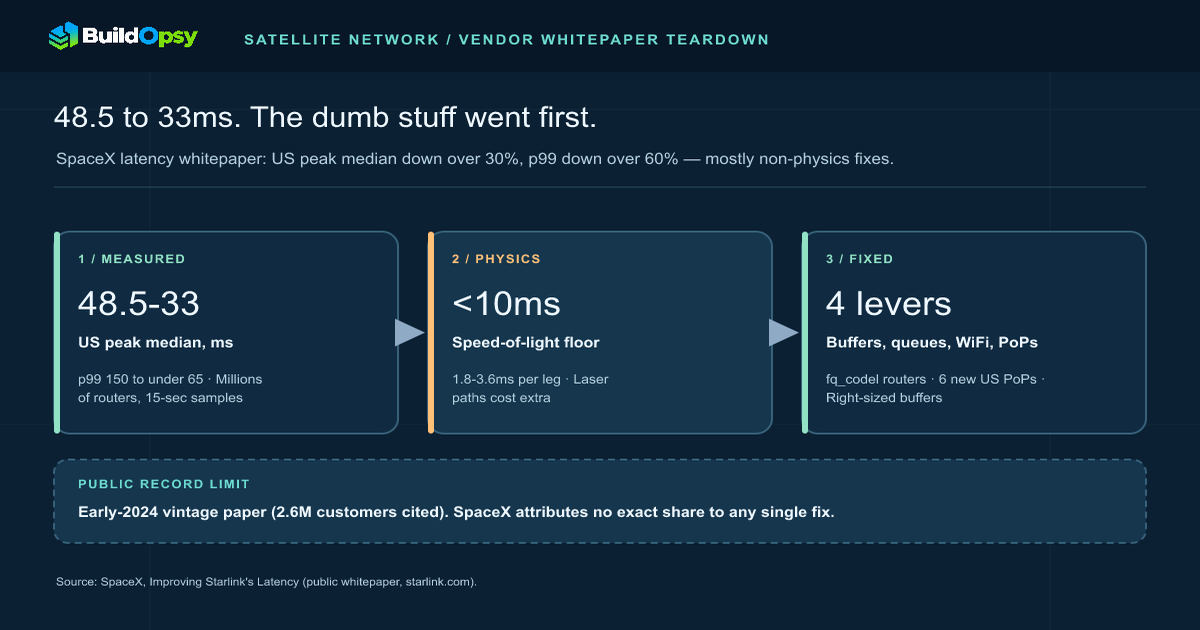
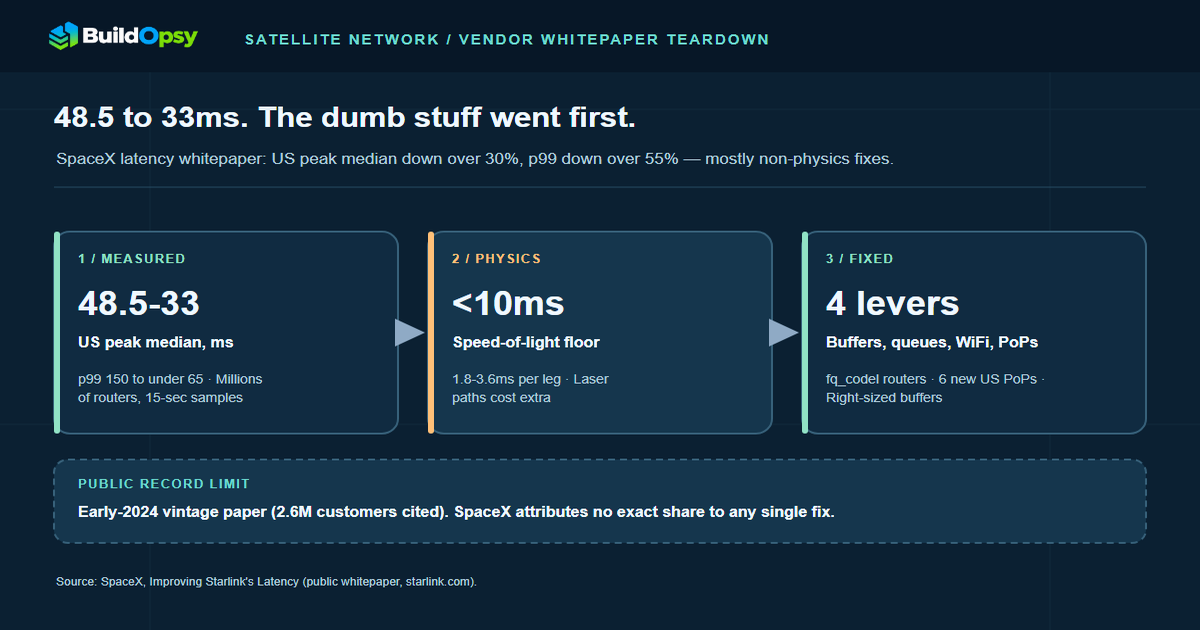
fix: correct latency p99 figures to strictly-true bounds

diff --git a/system-design/starlink-latency-whitepaper-teardown.html b/system-design/starlink-latency-whitepaper-teardown.html
@@ -49,7 +49,7 @@
         <p>Vendor latency claims usually arrive as a single best case. This paper is better than that. SpaceX reports distributions (median and p99), names the measurement window (peak hours, 6–9 PM local), and names the instrument (anonymized samples from millions of routers, averaged every 15 seconds). A claim with a denominator, a percentile, and a clock time can be checked. A bare "20ms!" cannot.</p>
         <table><thead><tr><th>Figure (SpaceX-reported)</th><th>Before</th><th>After</th><th>Cut</th></tr></thead><tbody>
           <tr><td>US peak-hour median</td><td>48.5ms</td><td>33ms</td><td>Over 30%</td></tr>
-          <tr><td>US peak-hour p99</td><td>Over 150ms</td><td>Under 65ms</td><td>Over 60%</td></tr>
+          <tr><td>US peak-hour p99</td><td>Over 150ms</td><td>Under 65ms</td><td>Over 55%</td></tr>
           <tr><td>Non-US median</td><td>Baseline undisclosed</td><td>Down up to 25%</td><td>Relative only</td></tr>
           <tr><td>Non-US worst case</td><td>Baseline undisclosed</td><td>Down up to 35%</td><td>Relative only</td></tr>
         </tbody></table>
@@ -136,7 +136,7 @@
         <div class="tip"><strong>Separate the WiFi:</strong> repeat one hour over the Starlink router's WiFi with a bulk download running alongside. The gap between wired-quiet and WiFi-loaded p99 is your household's personal bufferbloat number — and the fq_codel dividend, measured.</div>
       </section>
       <section><h2>8. The Verdict</h2>
-        <p>SpaceX's paper proves the composition, not just the improvement: a 48.5ms peak median built on a sub-10ms floor, cut to 33ms overwhelmingly through ground layout, scheduling, and queue hygiene, with the p99's 60% collapse fingering the buffers. Independent measurement — 19.2M samples, IETF decks, the 15-second scheduler — corroborates the geometry while differing on absolute numbers, exactly as different eras should. What remains open is everything the paper declines to split: per-fix shares, non-US baselines, and whether the 20ms goal survived the network's more than doubling since.</p>
+        <p>SpaceX's paper proves the composition, not just the improvement: a 48.5ms peak median built on a sub-10ms floor, cut to 33ms overwhelmingly through ground layout, scheduling, and queue hygiene, with the p99's sharper collapse fingering the buffers. Independent measurement — 19.2M samples, IETF decks, the 15-second scheduler — corroborates the geometry while differing on absolute numbers, exactly as different eras should. What remains open is everything the paper declines to split: per-fix shares, non-US baselines, and whether the 20ms goal survived the network's more than doubling since.</p>
         <p style="font-family:var(--font-serif);font-size:1.3rem;color:var(--navy);"><strong>Fifteen and a half milliseconds. Zero from physics. All from decisions.</strong></p>
         <p>What to watch next: whether SpaceX refreshes the paper with current-era numbers, whether PoP allocation keeps pace with user growth in new markets like India, and whether your own latency budget separates the floor you cannot move from the overhead you simply have not billed yet. The speed of light is not negotiable. Everything above it is.</p>
       </section>
